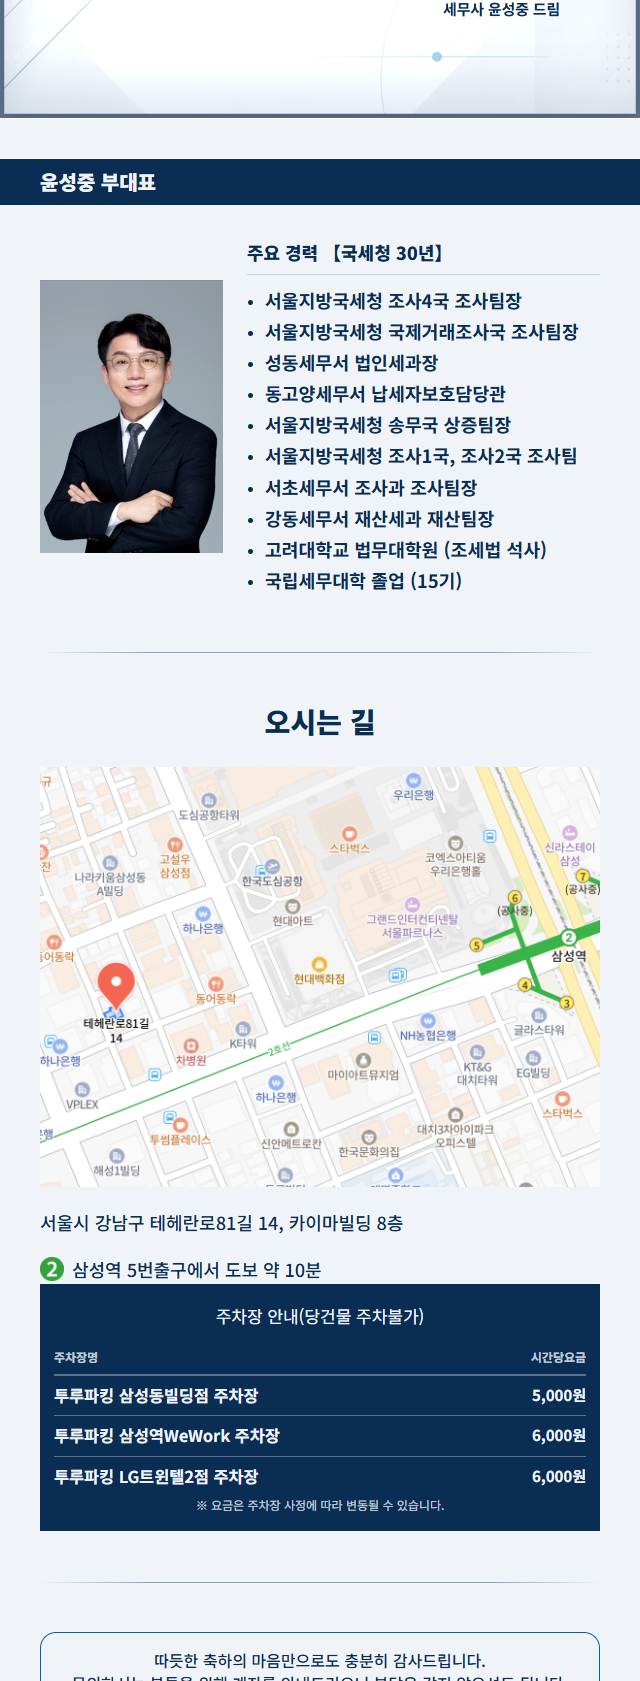
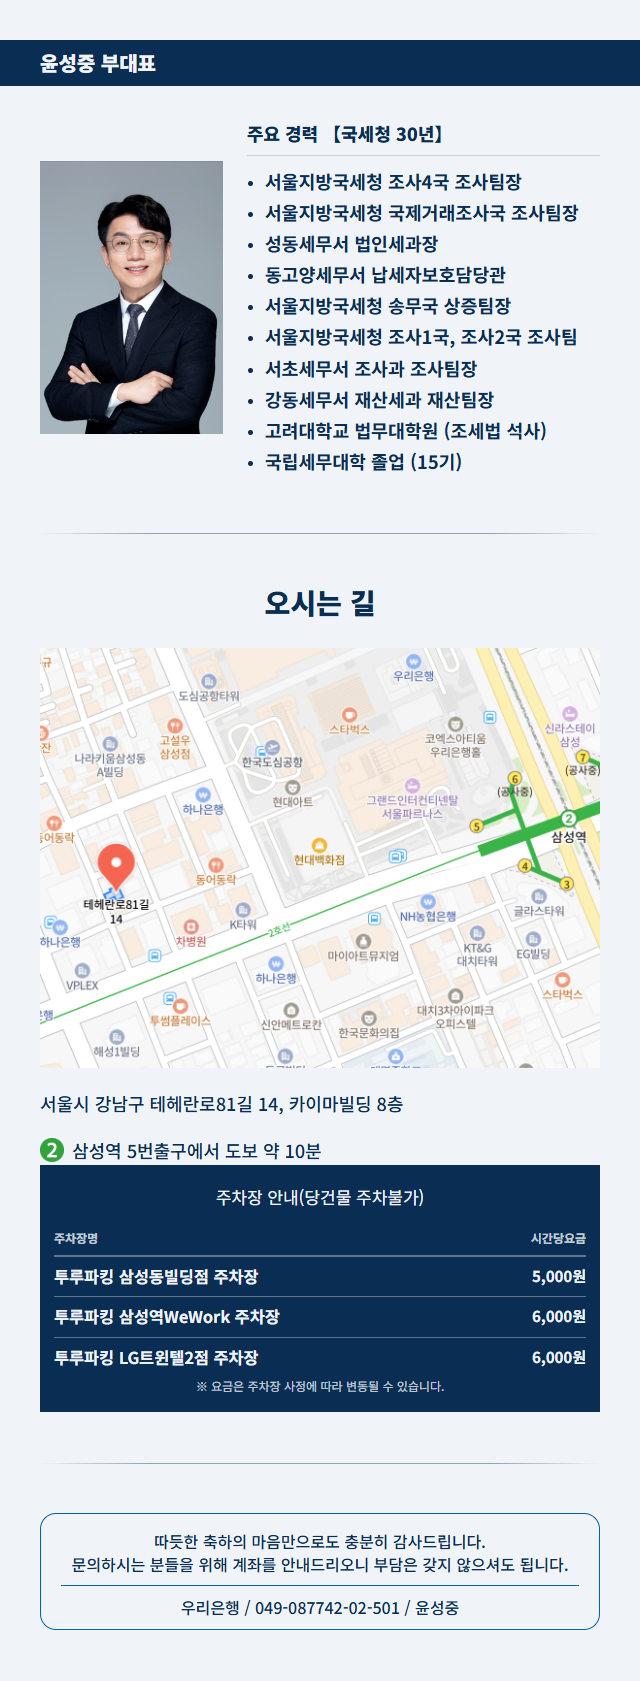
fix: start MMS details image after intro

diff --git a/scripts/verify-mms-layout.playwright.js b/scripts/verify-mms-layout.playwright.js
@@ -11,15 +11,17 @@ async (page) => {
 
   const result = await page.evaluate(() => {
     const intro = document.querySelector("#intro-section");
+    const details = document.querySelector("#mms-details");
     const profile = document.querySelector(".profile-section");
     const transit = document.querySelector(".transit");
     const parking = document.querySelector(".parking-notice");
     const account = document.querySelector(".account-section");
     const accountInfo = document.querySelector(".account-info");
-    if (![intro, profile, transit, parking, account, accountInfo].every(Boolean)) return { markup: false };
+    if (![intro, details, profile, transit, parking, account, accountInfo].every(Boolean)) return { markup: false };
 
     const introBox = intro.getBoundingClientRect();
     const profileBox = profile.getBoundingClientRect();
+    const detailsBox = details.getBoundingClientRect();
     const transitBox = transit.getBoundingClientRect();
     const parkingBox = parking.getBoundingClientRect();
     const accountBox = account.getBoundingClientRect();
@@ -30,6 +32,8 @@ async (page) => {
       documentWidth: document.documentElement.scrollWidth,
       hasMapLink: Boolean(document.querySelector(".map-link")),
       hasCopyButton: Boolean(document.querySelector("#copy-account-number")),
+      detailsStartsAfterIntro: Math.abs(detailsBox.top - profileBox.top) <= 0.5,
+      detailsContainsIntro: details.contains(intro),
       mapControlGap: parkingBox.top - transitBox.bottom,
       accountControlGap: Number.parseFloat(infoStyle.marginBottom),
       introHeight: Math.ceil(introBox.bottom) - Math.floor(introBox.top),
@@ -42,6 +46,8 @@ async (page) => {
     && result.documentWidth === 640
     && !result.hasMapLink
     && !result.hasCopyButton
+    && result.detailsStartsAfterIntro
+    && !result.detailsContainsIntro
     && Math.abs(result.mapControlGap) <= 0.5
     && result.accountControlGap === 0
     && result.introHeight > 0

diff --git a/scripts/render-mms-images.playwright.js b/scripts/render-mms-images.playwright.js
@@ -35,15 +35,17 @@ async (page) => {
     ["mms_img/mms_01_intro.jpg", "jpeg"],
   ]);
 
-  await page.evaluate(() => document.querySelector(".profile-section").scrollIntoView({ block: "start", inline: "nearest" }));
-  const detailsBox = await page.evaluate(() => {
-    const profile = document.querySelector(".profile-section").getBoundingClientRect();
-    const account = document.querySelector(".account-section").getBoundingClientRect();
-    return { x: 0, y: Math.floor(profile.top), width: 640, height: Math.ceil(account.bottom) - Math.floor(profile.top) };
-  });
-  await capture(detailsBox, [
-    ["mms_img/mms_02_details.png", "png"],
-    ["mms_img/mms_02_details.jpg", "jpeg"],
-  ]);
+  const details = page.locator("#mms-details");
+  const detailsBox = await details.boundingBox();
+  for (const [path, type] of [["mms_img/mms_02_details.png", "png"], ["mms_img/mms_02_details.jpg", "jpeg"]]) {
+    await details.screenshot({
+      path,
+      type,
+      ...(type === "jpeg" ? { quality: 90 } : {}),
+      animations: "disabled",
+      caret: "hide",
+      scale: "css",
+    });
+  }
   console.log(JSON.stringify({ intro: introBox, details: detailsBox }));
 }

diff --git a/mms_design.html b/mms_design.html
@@ -22,6 +22,7 @@
       </picture>
     </section>
 
+    <div id="mms-details">
     <section class="content-section profile-section" aria-labelledby="profile-title">
       <h2 id="profile-title" class="profile-heading">윤성중 부대표</h2>
       <div class="profile-grid">
@@ -70,6 +71,7 @@
         <p class="account-info">우리은행 / 049-087742-02-501 / 윤성중</p>
       </div>
     </section>
+    </div>
   </main>
 </body>
 </html>
